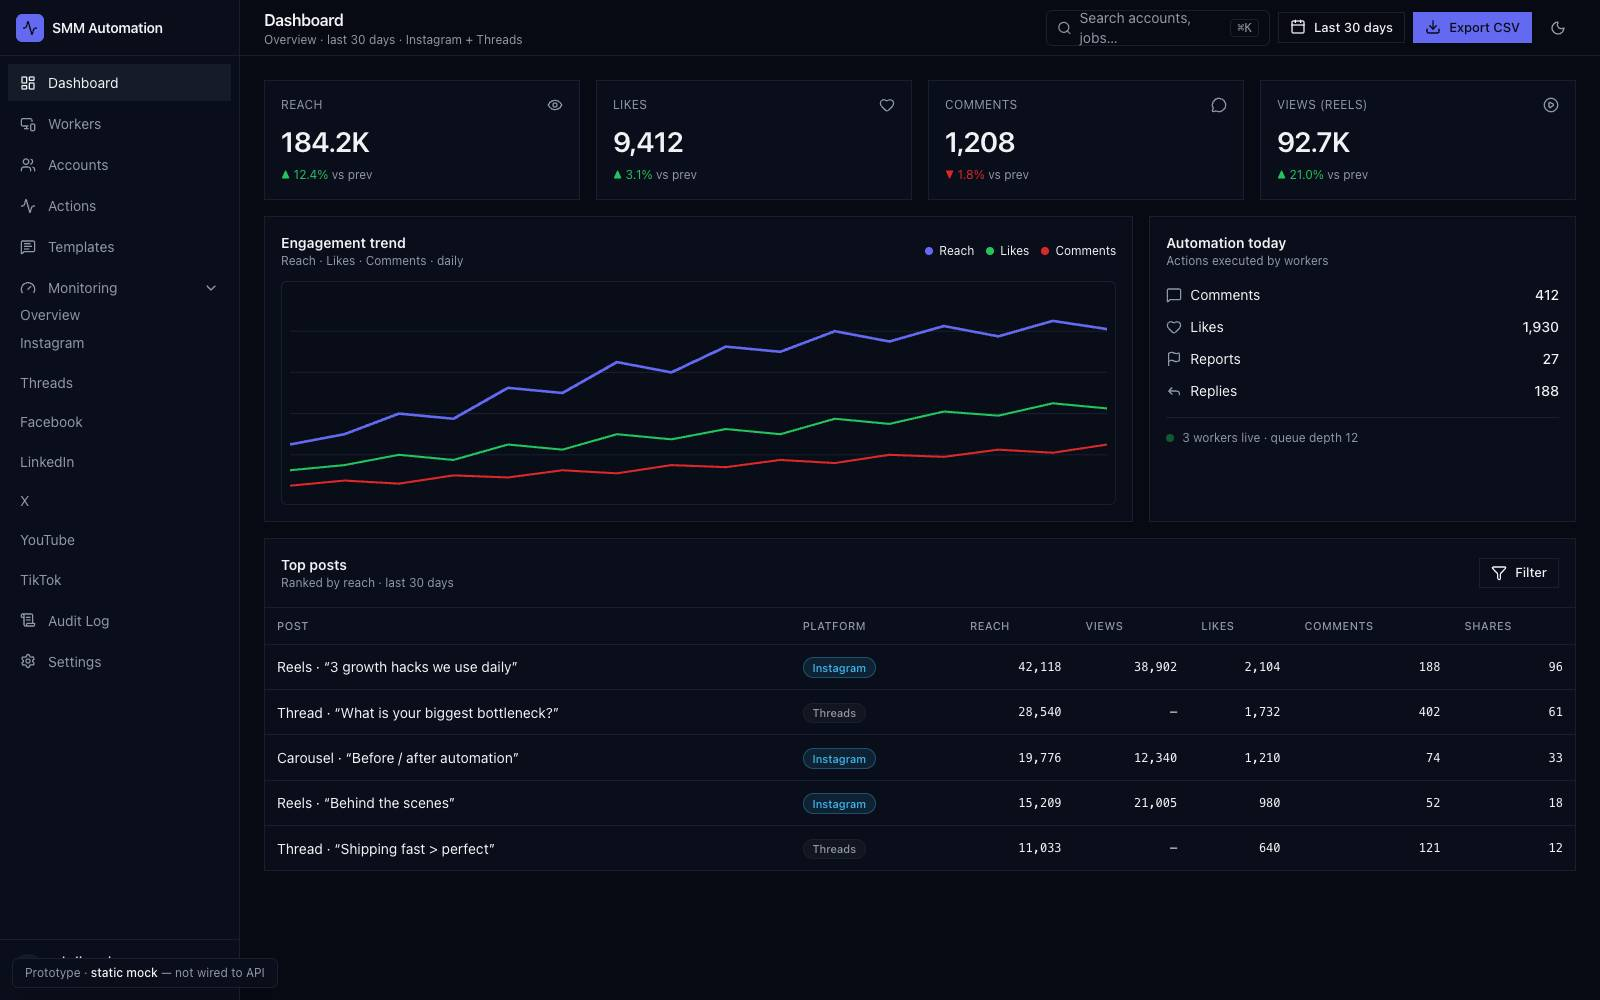
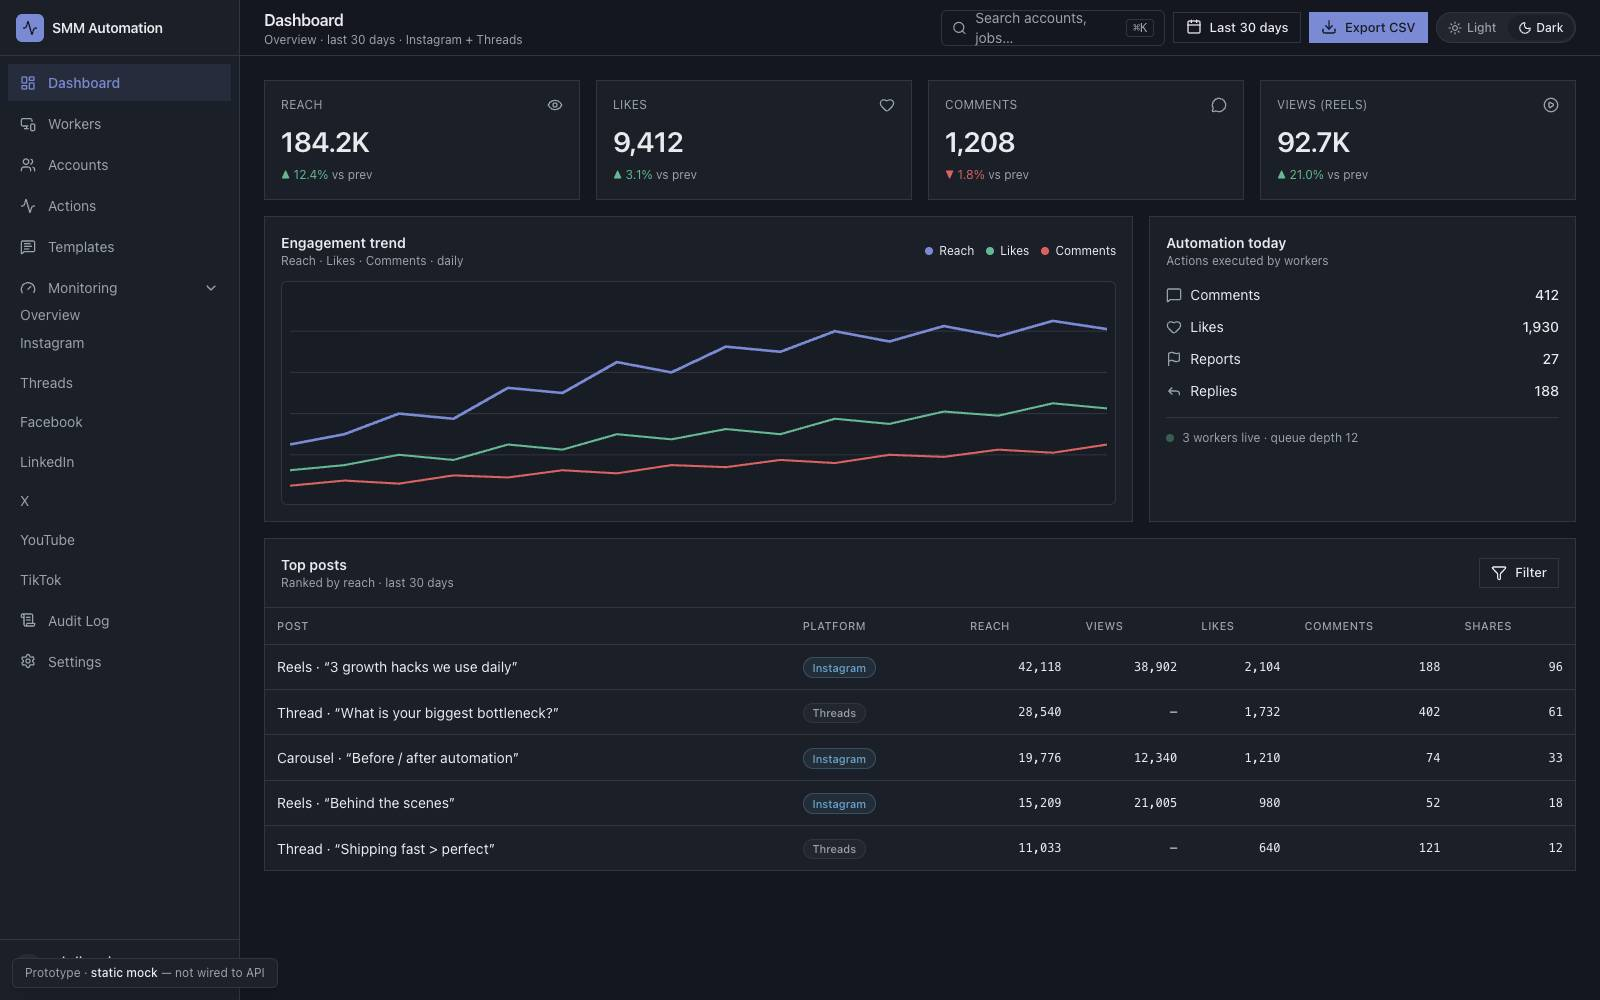
docs(prototype): record design pass and refresh screenshots
Document the palette/switch changes in the prototype README and PROGRESS log.
Extend shots.mjs with an --all sweep and refresh _shots/ to 28 images
(14 pages x light/dark) as visual evidence for review.

diff --git a/docs/PROGRESS.md b/docs/PROGRESS.md
@@ -41,14 +41,15 @@
 
 ## Frontend prototype (pre-implementation review)
 
-| Item                     | Status | Commit    | Date    | Notes                                                                                                          |
-| ------------------------ | ------ | --------- | ------- | -------------------------------------------------------------------------------------------------------------- |
-| Static FE prototype      | REVIEW | `6b59312` | 2026-09 | `docs/prototype/` — Tailwind CDN + design tokens, no build step. Awaiting user approval before porting.        |
-| Light + dark themes      | DONE   | `4216756` | 2026-09 | `theme.js` maps tokens into the Play CDN, persisted per browser, header toggle + floating button on standalone |
-| Per-platform analytics   | REVIEW | —         | 2026-09 | 7 new pages `analytics-{instagram,threads,facebook,linkedin,x,youtube,tiktok}.html`; Monitoring nav group      |
-| Dummy action-to-target   | REVIEW | —         | 2026-09 | `actions.html` + `actions.js` — inline stepper Queued→Dispatched→Running→Verifying→Success\|Failed             |
-| Automated browser verify | DONE   | —         | 2026-09 | `docs/prototype/verify.mjs` — 19/19 pages PASS (CSS resolves, theme toggles, nav shell, no console errors)     |
-| Screenshot capture tool  | DONE   | —         | 2026-09 | `docs/prototype/shots.mjs` → downscaled JPEGs in `docs/prototype/_shots/`                                      |
+| Item                     | Status | Commit    | Date    | Notes                                                                                                                                                      |
+| ------------------------ | ------ | --------- | ------- | ---------------------------------------------------------------------------------------------------------------------------------------------------------- |
+| Static FE prototype      | REVIEW | `6b59312` | 2026-09 | `docs/prototype/` — Tailwind CDN + design tokens, no build step. Awaiting user approval before porting.                                                    |
+| Light + dark themes      | DONE   | `4216756` | 2026-09 | `theme.js` maps tokens into the Play CDN, persisted per browser, header toggle + floating button on standalone                                             |
+| Per-platform analytics   | REVIEW | —         | 2026-09 | 7 new pages `analytics-{instagram,threads,facebook,linkedin,x,youtube,tiktok}.html`; Monitoring nav group                                                  |
+| Dummy action-to-target   | REVIEW | —         | 2026-09 | `actions.html` + `actions.js` — inline stepper Queued→Dispatched→Running→Verifying→Success\|Failed                                                         |
+| Automated browser verify | DONE   | —         | 2026-09 | `docs/prototype/verify.mjs` — 19/19 pages PASS (CSS resolves, theme toggles, nav shell, no console errors)                                                 |
+| Screenshot capture tool  | DONE   | —         | 2026-09 | `docs/prototype/shots.mjs` → downscaled JPEGs in `docs/prototype/_shots/`; supports explicit targets and `--all` (28 shots)                                |
+| Design refinement pass   | DONE   | —         | 2026-09 | Desaturated palette (no neon), segmented Light\|Dark switch, primary-tinted active nav, soft card shadow in light only. Re-verified 19/19 + 28 screenshots |
 
 ### Prototype verification finding (fixed)
 
@@ -57,6 +58,21 @@
   change). Fixed by removing it — theme state lives on `<html>` only, set by
   `theme.js`. Confirmed by `pnpm run proto:verify` (body bg now differs between
   themes on every page).
+
+### Design refinement (this pass)
+
+- **Palette desaturated** (`docs/prototype/styles.css`): light `--background`
+  `220 20% 97%` (soft off-white, not pure white), dark `222 20% 10%` (soft
+  charcoal, not near-black); `--primary` muted indigo `230 45% 48%` / `230 52% 66%`;
+  success/warning/info/destructive desaturated. Badges softened to `/0.28`
+  border + `/0.1` fill; stepper-dot glow removed.
+- **Segmented theme switch** (`theme.js` `switchMarkup()`/`bindThemeSwitch()`, used
+  by `shell.js`, `login.html`, `index.html`): explicit `Light|Dark`, `aria-pressed`
+  state, synced via the `smmthemechange` event.
+- **Active nav** now uses a primary tint (`hsl(var(--primary) / 0.12)`) + primary
+  text so the current route reads clearly.
+- **Evidence**: `node docs/prototype/shots.mjs --all` → 28 screenshots (14 pages ×
+  2 themes) in `docs/prototype/_shots/`.
 
 ### Scope split confirmed
 

diff --git a/docs/prototype/README.md b/docs/prototype/README.md
@@ -23,6 +23,13 @@ pnpm run proto:verify  # renders every page, asserts CSS + shell + console
 pnpm run proto:shots   # writes downscaled screenshots to docs/prototype/_shots
 ```
 
+The screenshot tool accepts explicit targets or a full sweep:
+
+```sh
+node docs/prototype/shots.mjs dashboard.html:light actions.html:dark
+node docs/prototype/shots.mjs --all   # every page in both themes (28 shots)
+```
+
 `verify.mjs` loads each page in headless Chromium, toggles dark↔light, and
 asserts that the body background **actually changes** (i.e. the Tailwind Play
 CDN mapped the design tokens and the theme is not locked). It fails on any
@@ -53,7 +60,8 @@ platform: `analytics-instagram`, `analytics-threads`, `analytics-facebook`,
 ## What this covers
 
 - Shell (sidebar nav + topbar + `⌘K`) — `shell.js`
-- **Light + dark mode** — `theme.js` seeds from `localStorage` / `prefers-color-scheme` (dark default), maps the design tokens into the Tailwind Play CDN, and is toggled from the header (shell pages) or the floating button (login / index). Choice persists per browser.
+- **Light + dark mode** — `theme.js` seeds from `localStorage` / `prefers-color-scheme` (dark default), maps the design tokens into the Tailwind Play CDN, and is toggled from a **labeled segmented Light|Dark switch** in the header (shell pages) or the floating switch (login / index). Choice persists per browser and stays in sync across pages via the `smmthemechange` event.
+- **Calm palette.** Saturation is deliberately modest — no neon/glow. Light mode uses a soft off-white (`220 20% 97%`) rather than pure white; dark mode a soft charcoal (`222 20% 10%`) rather than near-black. Accent is a muted indigo (`230 45% 48%` light / `230 52% 66%` dark). Status/feedback colors are desaturated too. Intended for long operator shifts by the Social Media Specialist team.
 - shadcn/ui-style components: button variants, card, badge variants (success / warning / destructive / info / outline), table, input, textarea, select, dialog (`<dialog>`), drawer (static aside), skeleton shimmer, status dot, stepper
 - Status colors from DESIGN SYSTEM §4.1: cold / ready / busy / error
 - Operator console layout pattern: filters → auto-fit grid + right-hand SSE ticker column
@@ -84,7 +92,18 @@ time against OpenAPI + SSE.
 
 ## Verification status
 
-Last run: **19/19 pages PASS** (`pnpm run proto:verify`). One real bug was found
-and fixed during verification: `actions.html` had `class="dark"` on `<body>`,
-which locked the theme tokens so the light/dark toggle did nothing. Theme state
-belongs on `<html>` only (set by `theme.js`).
+Last run: **19/19 pages PASS** (`pnpm run proto:verify`), screenshots refreshed
+for all 14 shipped pages in both themes. One real bug was found and fixed during
+verification: `actions.html` had `class="dark"` on `<body>`, which locked the
+theme tokens so the light/dark toggle did nothing. Theme state belongs on
+`<html>` only (set by `theme.js`).
+
+## Design pass log
+
+- **Desaturated palette** (`styles.css`): killed neon tints, softened badges to
+  `/0.28` border + `/0.1` fill, removed the stepper-dot glow, kept a single soft
+  card shadow in light mode only (dark relies on border contrast).
+- **Segmented theme switch** (`theme.js`, `shell.js`, `login.html`, `index.html`):
+  explicit Light|Dark control, `aria-pressed` reflects state, synced on change.
+- **Active nav** is a primary tint (`hsl(var(--primary) / 0.12)`) with primary
+  text, not a plain neutral accent, so the current page reads clearly.
